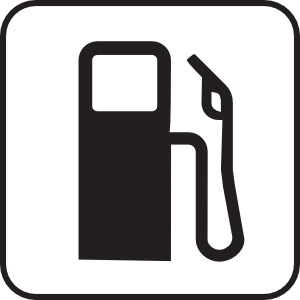
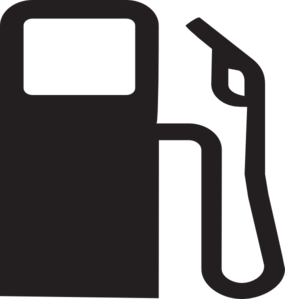
-Changed Gas Pump image -Created a function to shorten getElementById -Created function to enable text boxes when check boxes are checked and disable/clear them when unchecked -Added onclick handlers for each checkbox that call my isChecked function -Declared some variables for my different categori

diff --git a/budget.html b/budget.html
@@ -10,26 +10,29 @@
 <h1>Budget Calculator</h1>
 <h4>Input Person A and Person B's contributions to the shared expenses</h4>
 <table>
-    <tr><td>Person A</td><td><input type="text" id="txtContA"></td><td>Person B</td><td><input type="text" id="txtContB"></td></tr>
+    <tr><td>Person A</td><td><input type="text" id="txtContA"></td><td>Person B</td><td><input type="text" id="txtContB"></td> <td><div id="divLowFunds"></div></td></tr>
 </table>
 <h4>Check all categories that you would like enabled and input their values</h4>
 <table>
     <thead>    <tr><td></td>               <td>Category</td> <td>Total</td><td>Person A Contribution</td> <td>Person B Contribution</td></tr></thead>
-    <tr><td><input type="checkbox" id="chkRent"></td><td>Rent</td>                  <td><input type="text" id="txtRent" disabled></td>
+    <tr><td><input type="checkbox" id="chkRent" onclick="isChecked('Rent')"></td><td>Rent</td>                  <td>$<input type="text" id="txtRent" disabled ></td>
     <td><div id="divRentA"></div></td><td><div id="divRentB"></div></td>  </tr>
-    <tr><td><input type="checkbox" id="chkMortgage"></td><td>Mortgage</td>          <td><input type="text" id="txtMortgage" disabled></td></tr>
-    <tr><td><input type="checkbox" id="chkWater"></td><td>Water</td>                <td><input type="text" id="txtWater" disabled></td></tr>
-    <tr><td><input type="checkbox" id="chkGas"></td><td>Gas</td>                    <td><input type="text" id="txtGas" disabled></td></tr>
-    <tr><td><input type="checkbox" id="chkElectric"></td><td>Electric</td>          <td><input type="text" id="txtElectric" disabled></td></tr>
-    <tr><td><input type="checkbox" id="chkTV"></td><td>TV</td>                      <td><input type="text" id="txtTV" disabled></td></tr>
-    <tr><td><input type="checkbox" id="chkInternet"></td><td>Internet</td>          <td><input type="text" id="txtInternet" disabled></td></tr>
-    <tr><td><input type="checkbox" id="chkPhone"></td><td>Phone</td>                <td><input type="text" id="txtPhone" disabled></td></tr>
-    <tr><td><input type="checkbox" id="chkPet"></td><td>Pet Supplies/Vet</td>       <td><input type="text" id="txtPet" disabled></td></tr>
-    <tr><td><input type="checkbox" id="chkCreditCard"></td><td>Credit Card</td>     <td><input type="text" id="txtCreditCard" disabled></td></tr>
-    <tr><td><input type="checkbox" id="chkGroceries"></td><td>Groceries</td>        <td><input type="text" id="txtGroceries" disabled></td></tr>
-    <tr><td><input type="checkbox" id="chkRestaurants"></td><td>Restaurants</td>    <td><input type="text" id="txtRestaurants" disabled></td></tr>
-    <tr><td><input type="checkbox" id="chkEntertainment"></td><td>Entertainment</td><td><input type="text" id="txtEntertainment" disabled></td></tr>
-    <tr><td><input type="checkbox" id="chkOther"></td><td>Other</td>                <td><input type="text" id="txtOther" disabled></td></tr>
+    <tr><td><input type="checkbox" id="chkMortgage" onclick="isChecked('Mortgage')"></td><td>Mortgage</td>          <td>$<input type="text" id="txtMortgage" disabled></td></tr>
+    <tr><td><input type="checkbox" id="chkWater" onclick="isChecked('Water')"></td><td>Water</td>                <td>$<input type="text" id="txtWater" disabled></td></tr>
+    <tr><td><input type="checkbox" id="chkGas" onclick="isChecked('Gas')"></td><td>Gas</td>                    <td>$<input type="text" id="txtGas" disabled></td></tr>
+    <tr><td><input type="checkbox" id="chkElectric" onclick="isChecked('Electric')"></td><td>Electric</td>          <td>$<input type="text" id="txtElectric" disabled></td></tr>
+    <tr><td><input type="checkbox" id="chkTV" onclick="isChecked('TV')"></td><td>TV</td>                      <td>$<input type="text" id="txtTV" disabled></td></tr>
+    <tr><td><input type="checkbox" id="chkInternet" onclick="isChecked('Internet')"></td><td>Internet</td>          <td>$<input type="text" id="txtInternet" disabled></td></tr>
+    <tr><td><input type="checkbox" id="chkCellPhone" onclick="isChecked('CellPhone')"></td><td>Cell Phone</td>                <td>$<input type="text" id="txtCellPhone" disabled></td></tr>
+    <tr><td><input type="checkbox" id="chkHomePhone" onclick="isChecked('HomePhone')"></td><td>Home Phone</td>                <td>$<input type="text" id="txtHomePhone" disabled></td></tr>
+    <tr><td><input type="checkbox" id="chkPet" onclick="isChecked('Pet')"></td><td>Pet Supplies/Vet</td>       <td>$<input type="text" id="txtPet" disabled></td></tr>
+    <tr><td><input type="checkbox" id="chkCreditCard" onclick="isChecked('CreditCard')"></td><td>Credit Card</td>     <td>$<input type="text" id="txtCreditCard" disabled></td></tr>
+    <tr><td><input type="checkbox" id="chkGroceries" onclick="isChecked('Groceries')"></td><td>Groceries</td>        <td>$<input type="text" id="txtGroceries" disabled></td></tr>
+    <tr><td><input type="checkbox" id="chkRestaurants" onclick="isChecked('Restaurants')"></td><td>Restaurants</td>    <td>$<input type="text" id="txtRestaurants" disabled></td></tr>
+    <tr><td><input type="checkbox" id="chkEntertainment" onclick="isChecked('Entertainment')"></td><td>Entertainment</td><td>$<input type="text" id="txtEntertainment" disabled></td></tr>
+    <tr><td><input type="checkbox" id="chkSavings" onclick="isChecked('Savings')"></td><td>Savings</td>                <td>$<input type="text" id="txtSavings" disabled></td></tr>
+    <tr><td><input type="checkbox" id="chkInvestments" onclick="isChecked('Investments')"></td><td>Investments</td>    <td>$<input type="text" id="txtInvestments" disabled></td></tr>
+    <tr><td><input type="checkbox" id="chkOther" onclick="isChecked('Other')"></td><td>Other</td>                <td>$<input type="text" id="txtOther" disabled></td></tr>
 
 </table>
 <br>

diff --git a/script.js b/script.js
@@ -1,3 +1,63 @@
 /**
  * Created by Del on 10/24/2016.
  */
+var Rent = 0;
+var Mortgage = 0;
+var Water = 0;
+var Gas = 0;
+var Electric = 0;
+var TV = 0;
+var Internet = 0;
+var CellPhone = 0;
+var HomePhone = 0;
+var Pet = 0;
+var CreditCard = 0;
+var Groceries = 0;
+var Restaurants = 0;
+var Entertainment = 0;
+var Savings = 0;
+var Investments = 0;
+var Other = 0;
+
+var CategoriesTotal = 5;
+var ContTotal = 4;
+
+
+function $(element) {
+   return document.getElementById(element);
+}
+
+function isChecked(Category) {
+    if ($('chk' + Category).checked == true){
+        $('txt' + Category).disabled = false;
+    } else {
+        $('txt' + Category).value = "";
+        $('txt' + Category).disabled = true;
+    }
+}
+
+function Calculate() {
+    ValidateInput();
+
+    DisplayLowFundsMsg();
+}
+
+function GetInput() {
+    
+}
+
+function ValidateInput(Category) {
+    GetInput(Category);
+    
+    if (parseFloat("txt" + Category) >= 0){
+        
+    }
+        
+    else {alert("Please Enter a Valid, Positive Number")}
+}
+
+function DisplayLowFundsMsg() {
+    if (CategoriesTotal > ContTotal){
+        $("divLowFunds").innerHTML = "You are over budget!"
+    } else $("divLowFunds").innerHTML = "";
+}

diff --git a/styles.css b/styles.css
@@ -1,4 +1,4 @@
 img {width:150px;}
 input[type="text"] {
-    width: 50px;}
-thead{text-blink: 500}
+    width: 30px;}
+thead{font-weight: bold}
